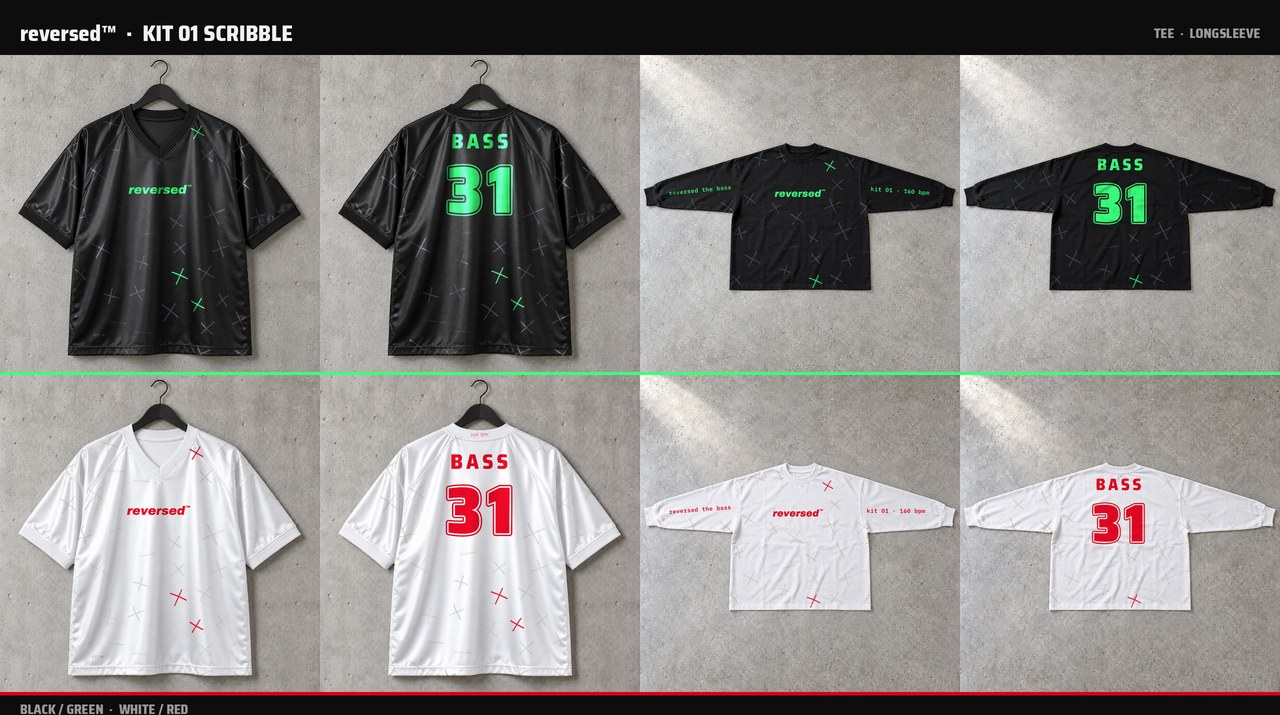
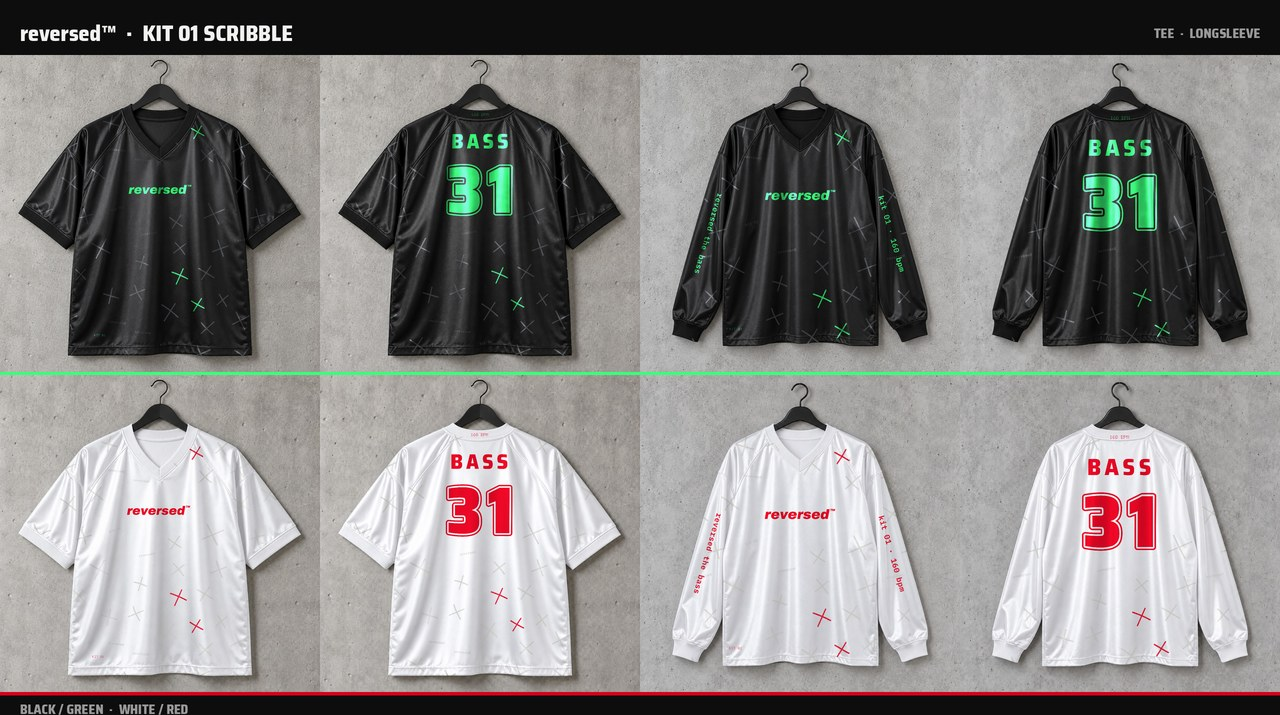
Kit longsleeve op glanzende V-hals blanks, mouwtekst langs de mouw
Claude-Session: https://claude.ai/code/session_01Q3Vwcqa7EM4c5jqGE1QtzN

Changed region(s): [[0.5, 0.0615, 1.0, 0.9846]]

diff --git a/index.html b/index.html
@@ -154,7 +154,7 @@ input[type=range]{width:100%;accent-color:var(--accent)}
 <script>
 (()=>{
 /* ---------- products & blank photos (calibrated) ---------- */
-const PRODUCTS={"kit": {"gloss": true, "name": "Kit jersey", "blank": "Boxy V-neck voetbalshirt, glanzend polyester interlock \u00b1160 g/m\u00b2, raglan mouw, rib kraag en boordjes", "colors": {"black": {"name": "Zwart / groen", "sides": {"front": {"src": "blanks3/gj_black_front", "w": 1254, "h": 1254, "cx": 628, "cy": 192, "ppc": 11.267, "dark": true}, "back": {"src": "blanks3/gj_black_back", "w": 1254, "h": 1254, "cx": 627, "cy": 188, "ppc": 11.267, "dark": true}}}, "white": {"name": "Wit / rood", "sides": {"front": {"src": "blanks3/gj_white_front", "w": 1254, "h": 1254, "cx": 622, "cy": 195, "ppc": 11.3, "dark": false}, "back": {"src": "blanks3/gj_white_back", "w": 1254, "h": 1254, "cx": 625, "cy": 189, "ppc": 11.3, "dark": false}}}}}, "longsleeve": {"name": "Oversized longsleeve", "blank": "Boxy oversized longsleeve, 240 g/m\u00b2, 100% katoen, rib boorden (mockup; glanzende longsleeve-blank volgt)", "colors": {"black": {"name": "Zwart / groen", "sides": {"front": {"src": "blanks2/ls_black_front", "w": 1254, "h": 1254, "cx": 627, "cy": 346, "ppc": 9.033, "dark": true}, "back": {"src": "blanks2/ls_black_back", "w": 1254, "h": 1254, "cx": 628, "cy": 345, "ppc": 9.033, "dark": true}}}, "white": {"name": "Wit / rood", "sides": {"front": {"src": "blanks2/ls_white_front", "w": 1254, "h": 1254, "cx": 619, "cy": 346, "ppc": 8.983, "dark": false}, "back": {"src": "blanks2/ls_white_back", "w": 1254, "h": 1254, "cx": 622, "cy": 345, "ppc": 9.0, "dark": false}}}}}, "jacket": {"gloss": true, "name": "Track jacket", "blank": "Oversized raglan track jacket, glanzend polyester tricot, opstaande kraag, metalen rits, rib boorden en zoom", "colors": {"black": {"name": "Zwart / groen", "sides": {"front": {"src": "blanks3/jacket_black_front", "w": 1254, "h": 1254, "cx": 626, "cy": 145, "ppc": 12.5, "dark": true}, "back": {"src": "blanks3/jacket_black_back", "w": 1254, "h": 1254, "cx": 626, "cy": 142, "ppc": 12.5, "dark": true}}}, "white": {"name": "Wit / rood", "sides": {"front": {"src": "blanks3/jacket_white_front", "w": 1254, "h": 1254, "cx": 626, "cy": 145, "ppc": 12.5, "dark": false}, "back": {"src": "blanks3/jacket_white_back", "w": 1254, "h": 1254, "cx": 626, "cy": 142, "ppc": 12.5, "dark": false}}}}}, "pants": {"gloss": true, "name": "Track pants", "blank": "Wide-leg track pants, glanzend polyester tricot, elastische band met koord, steekzakken in de zijnaad", "colors": {"black": {"name": "Zwart / groen", "sides": {"front": {"src": "blanks3/pants_black", "w": 1254, "h": 1254, "cx": 630, "cy": 53, "ppc": 10.775, "dark": true}, "back": {"src": "blanks3/pants_plain_black", "w": 1254, "h": 1254, "cx": 632, "cy": 53, "ppc": 10.95, "dark": true}}}, "white": {"name": "Wit / rood", "sides": {"front": {"src": "blanks3/pants_white", "w": 1254, "h": 1254, "cx": 630, "cy": 53, "ppc": 10.775, "dark": false}, "back": {"src": "blanks3/pants_plain_white", "w": 1254, "h": 1254, "cx": 632, "cy": 53, "ppc": 10.95, "dark": false}}}}}, "tee": {"name": "Oversized heavyweight tee", "blank": "Boxy oversized tee, 240\u2013280 g/m\u00b2, 100% katoen, dropped shoulder", "colors": {"black": {"name": "Zwart", "sides": {"front": {"src": "blanks2/tee_black_front", "w": 1254, "h": 1254, "cx": 628, "cy": 137, "ppc": 13.4, "dark": true}, "back": {"src": "blanks2/tee_black_back", "w": 1254, "h": 1254, "cx": 629, "cy": 135, "ppc": 13.433, "dark": true}}}, "white": {"name": "Wit", "sides": {"front": {"src": "blanks2/tee_white_front", "w": 1254, "h": 1254, "cx": 625, "cy": 136, "ppc": 13.25, "dark": false}, "back": {"src": "blanks2/tee_white_back", "w": 1254, "h": 1254, "cx": 625, "cy": 135, "ppc": 13.233, "dark": false}}}}}};
+const PRODUCTS={"kit": {"gloss": true, "name": "Kit jersey", "blank": "Boxy V-neck voetbalshirt, glanzend polyester interlock \u00b1160 g/m\u00b2, raglan mouw, rib kraag en boordjes", "colors": {"black": {"name": "Zwart / groen", "sides": {"front": {"src": "blanks3/gj_black_front", "w": 1254, "h": 1254, "cx": 628, "cy": 192, "ppc": 11.267, "dark": true}, "back": {"src": "blanks3/gj_black_back", "w": 1254, "h": 1254, "cx": 627, "cy": 188, "ppc": 11.267, "dark": true}}}, "white": {"name": "Wit / rood", "sides": {"front": {"src": "blanks3/gj_white_front", "w": 1254, "h": 1254, "cx": 622, "cy": 195, "ppc": 11.3, "dark": false}, "back": {"src": "blanks3/gj_white_back", "w": 1254, "h": 1254, "cx": 625, "cy": 189, "ppc": 11.3, "dark": false}}}}}, "longsleeve": {"gloss": true, "name": "Kit longsleeve", "blank": "Boxy V-neck longsleeve voetbalshirt, glanzend polyester interlock \u00b1160 g/m\u00b2, raglan mouw, rib kraag en manchetten", "colors": {"black": {"name": "Zwart / groen", "sides": {"front": {"src": "blanks3/gl_black_front", "w": 1254, "h": 1254, "cx": 628, "cy": 200, "ppc": 12.6, "dark": true}, "back": {"src": "blanks3/gl_black_back", "w": 1254, "h": 1254, "cx": 628, "cy": 196, "ppc": 12.6, "dark": true}}}, "white": {"name": "Wit / rood", "sides": {"front": {"src": "blanks3/gl_white_front", "w": 1254, "h": 1254, "cx": 627, "cy": 196, "ppc": 12.6, "dark": false}, "back": {"src": "blanks3/gl_white_back", "w": 1254, "h": 1254, "cx": 625, "cy": 193, "ppc": 12.6, "dark": false}}}}}, "jacket": {"gloss": true, "name": "Track jacket", "blank": "Oversized raglan track jacket, glanzend polyester tricot, opstaande kraag, metalen rits, rib boorden en zoom", "colors": {"black": {"name": "Zwart / groen", "sides": {"front": {"src": "blanks3/jacket_black_front", "w": 1254, "h": 1254, "cx": 626, "cy": 145, "ppc": 12.5, "dark": true}, "back": {"src": "blanks3/jacket_black_back", "w": 1254, "h": 1254, "cx": 626, "cy": 142, "ppc": 12.5, "dark": true}}}, "white": {"name": "Wit / rood", "sides": {"front": {"src": "blanks3/jacket_white_front", "w": 1254, "h": 1254, "cx": 626, "cy": 145, "ppc": 12.5, "dark": false}, "back": {"src": "blanks3/jacket_white_back", "w": 1254, "h": 1254, "cx": 626, "cy": 142, "ppc": 12.5, "dark": false}}}}}, "pants": {"gloss": true, "name": "Track pants", "blank": "Wide-leg track pants, glanzend polyester tricot, elastische band met koord, steekzakken in de zijnaad", "colors": {"black": {"name": "Zwart / groen", "sides": {"front": {"src": "blanks3/pants_black", "w": 1254, "h": 1254, "cx": 630, "cy": 53, "ppc": 10.775, "dark": true}, "back": {"src": "blanks3/pants_plain_black", "w": 1254, "h": 1254, "cx": 632, "cy": 53, "ppc": 10.95, "dark": true}}}, "white": {"name": "Wit / rood", "sides": {"front": {"src": "blanks3/pants_white", "w": 1254, "h": 1254, "cx": 630, "cy": 53, "ppc": 10.775, "dark": false}, "back": {"src": "blanks3/pants_plain_white", "w": 1254, "h": 1254, "cx": 632, "cy": 53, "ppc": 10.95, "dark": false}}}}}, "tee": {"name": "Oversized heavyweight tee", "blank": "Boxy oversized tee, 240\u2013280 g/m\u00b2, 100% katoen, dropped shoulder", "colors": {"black": {"name": "Zwart", "sides": {"front": {"src": "blanks2/tee_black_front", "w": 1254, "h": 1254, "cx": 628, "cy": 137, "ppc": 13.4, "dark": true}, "back": {"src": "blanks2/tee_black_back", "w": 1254, "h": 1254, "cx": 629, "cy": 135, "ppc": 13.433, "dark": true}}}, "white": {"name": "Wit", "sides": {"front": {"src": "blanks2/tee_white_front", "w": 1254, "h": 1254, "cx": 625, "cy": 136, "ppc": 13.25, "dark": false}, "back": {"src": "blanks2/tee_white_back", "w": 1254, "h": 1254, "cx": 625, "cy": 135, "ppc": 13.233, "dark": false}}}}}};
 const TECHS=['Zeefdruk','Puff (zeefdruk)','Sublimatie','DTF','Borduur'];
 const SIZES=['XS','S','M','L','XL','XXL'];
 
@@ -248,7 +248,7 @@ async function save(){
   else{try{localStorage.setItem('merchlab2',JSON.stringify(designs));chip('Lokaal opgeslagen')}catch(e){chip('Niet opgeslagen','bad')}}
   fillSel();
 }
-const SHORT={kit:'Kit jersey',longsleeve:'Longsleeve',jacket:'Track jacket',pants:'Track pants',tee:'T-shirt'};
+const SHORT={kit:'Kit jersey',longsleeve:'Kit longsleeve',jacket:'Track jacket',pants:'Track pants',tee:'T-shirt'};
 function colName(d){return (PRODUCTS[d.product].colors[d.color]||{}).name||d.color}
 function title(d){return `${d.name} · ${colName(d)}`}
 function sortDesigns(){const ord=Object.keys(PRODUCTS);designs.sort((a,b)=>ord.indexOf(a.product)-ord.indexOf(b.product)||a.name.localeCompare(b.name)||a.color.localeCompare(b.color))}

diff --git a/tools/pattern9.py b/tools/pattern9.py
@@ -117,3 +117,28 @@ for suf,hx in (('green','#39FF7A'),('red','#D6001C')):
         d,w=text_path(txt,MONO6,25,0,20,tracking=0.04)
         open(f'{ST}/art/sleeve_{nm}_{suf}.svg','w').write(f'<svg xmlns="http://www.w3.org/2000/svg" width="{w+2:.0f}mm" height="28mm" viewBox="0 0 {w+2:.0f} 28"><path d="{d}" fill="{hx}"/></svg>')
 print('done')
+
+# ---- glossy V-neck longsleeve (blanks3/gl_*) ----
+GL_CUFF=[(105,985),(250,1030),(235,1112),(95,1070)]
+GL_V=[(470,196),(627,398),(785,196),(785,150),(470,150)]
+GL_CREW=[(480,150),(775,150),(768,228),(700,254),(627,259),(554,254),(488,228)]
+KO_GL={'front':[(-13,21,13,30),(-23,66,-18,72),(-40,10,-18,64),(18,10,40,64)],'back':[(-15,9,15,42)]}
+for col,(tone,acc) in T.items():
+    for side,neck in (('front',GL_V),('back',GL_CREW)):
+        cx=json.load(open(f'{ST}/blanks3/gl_{col}_{side}.json'))['collarX']
+        render(f'blanks3/gl_{col}_{side}',f'pat_scribble_gl_{col}_{side}',tone,acc,[GL_CUFF,mir(GL_CUFF,cx),neck],KO_GL[side] if side=='back' else KO_GL['front'][:2])
+    ph=f'blanks3/gl_{col}_front'; c=json.load(open(f'{ST}/{ph}.json')); W,H=c['w'],c['h']; ppc=c['pxPerCm']
+    a=cv2.imread(f'{ST}/{ph}_map.png',cv2.IMREAD_UNCHANGED)[:,:,3]
+    out=[]
+    for txt,side_ in (('reversed the bass','L'),('kit 01 · 160 bpm','R')):
+        ys=np.arange(420,960,10); pts=[]
+        for y in ys:
+            xs=np.where(a[y]>128)[0]; pts.append((xs.min()+58) if side_=='L' else (xs.max()-58))
+        k,b=np.polyfit(ys,pts,1)   # x = k*y + b
+        yc=700; xc=k*yc+b; ang=math.degrees(math.atan2(1,k))
+        d,w=text_path(txt,MONO6,2.4*ppc,0,0.36*2.4*ppc,anchor='middle',tracking=0.04)
+        out.append(f'<g transform="translate({xc:.1f},{yc:.1f}) rotate({ang:.2f})"><path d="{d}" fill="{acc}"/></g>')
+    sv=f'<svg xmlns="http://www.w3.org/2000/svg" width="{W}" height="{H}" viewBox="0 0 {W} {H}">{"".join(out)}</svg>'
+    png=cairosvg.svg2png(bytestring=sv.encode(),output_width=W)
+    im=cv2.imdecode(np.frombuffer(png,np.uint8),cv2.IMREAD_UNCHANGED).astype(np.float32); im[:,:,3]*=a/255.
+    cv2.imwrite(f'{ST}/art/gl_sleevetext_{col}.png',im.astype(np.uint8)); print('gl sleeve',col)
